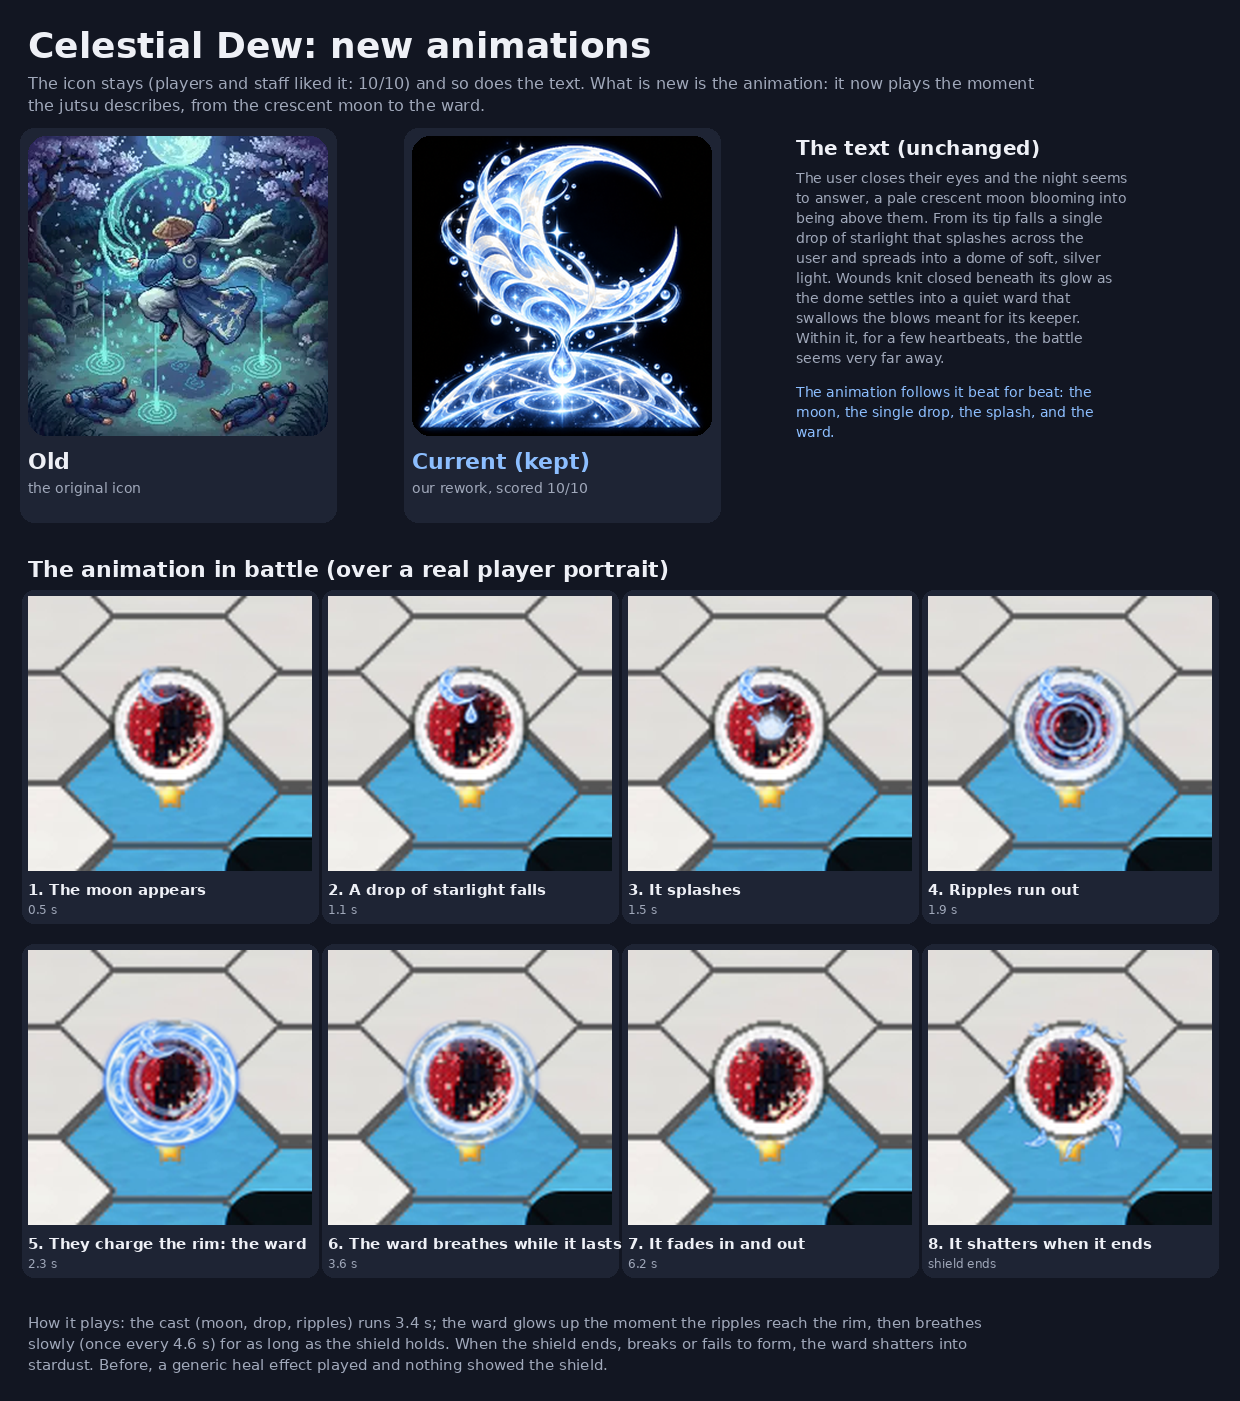
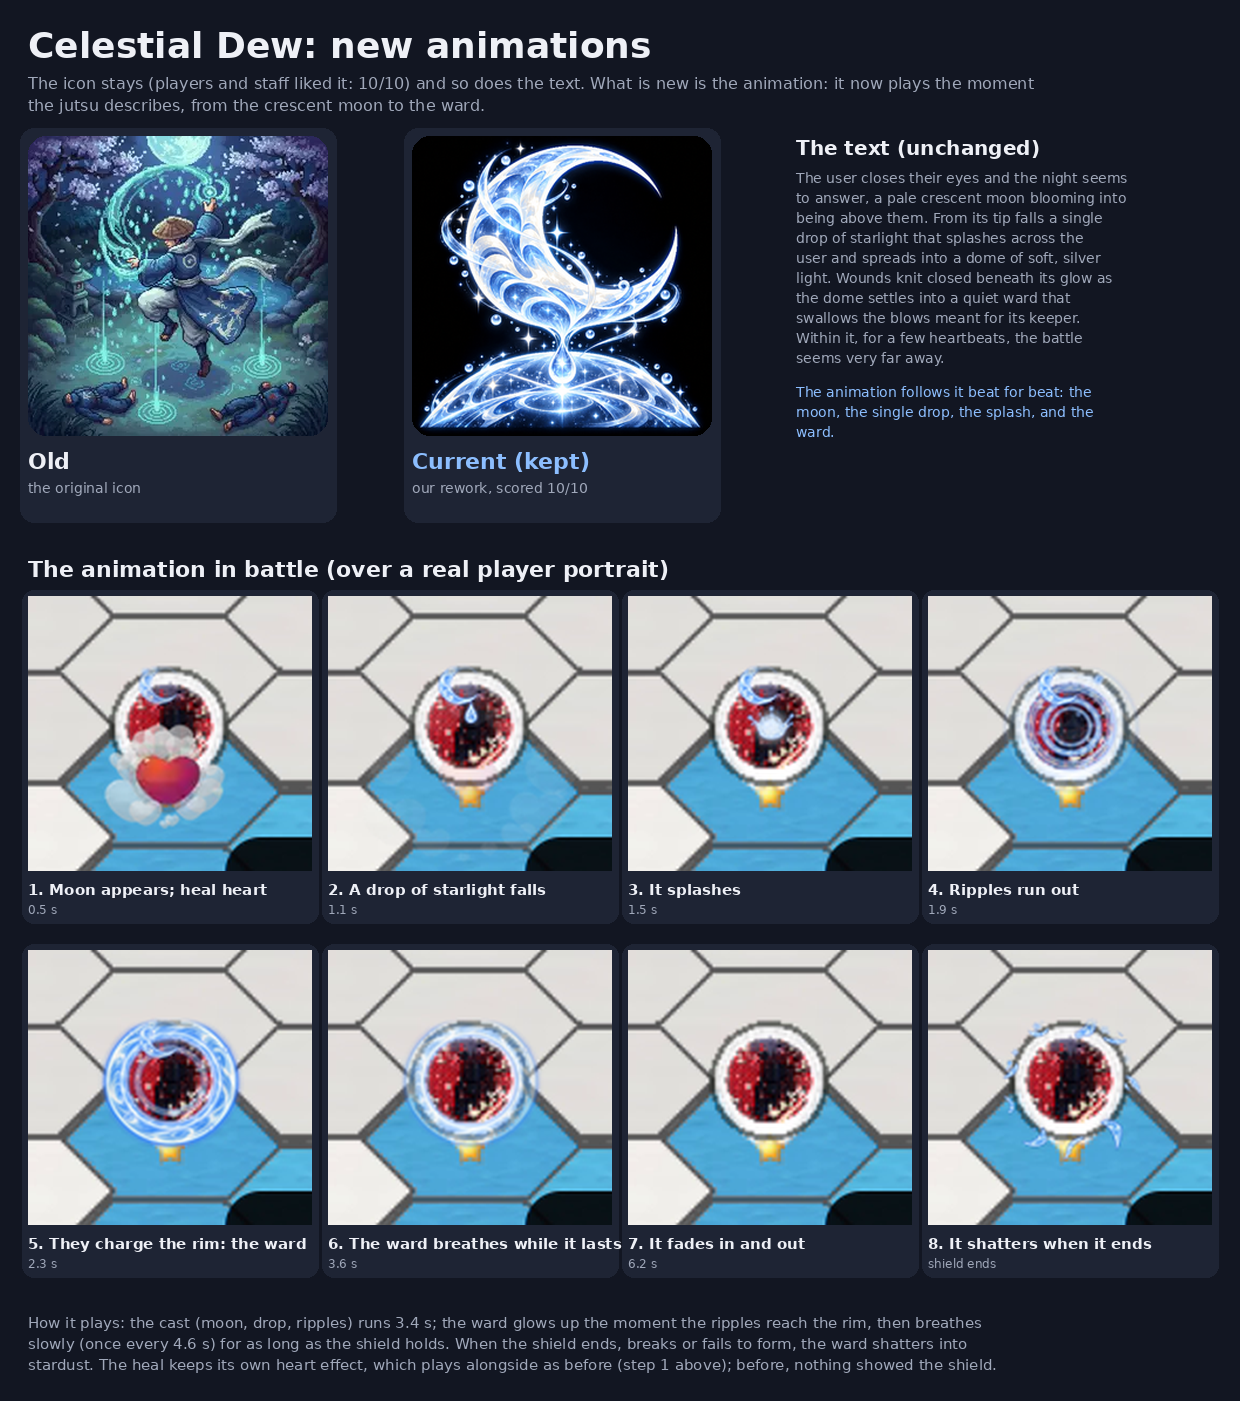
Celestial Dew: the heal keeps its own appear (I9aYhT5wMB); previews and showcase play it alongside; plan corrected
Claude-Session: https://claude.ai/code/session_01BK7FehqLqgE1qdDYPV9z98

diff --git a/docs/design/celestial_dew_animation/showcase/make_showcase.py b/docs/design/celestial_dew_animation/showcase/make_showcase.py
@@ -24,7 +24,7 @@ BATTLE = ("%user closes their eyes and the night seems to answer, a pale crescen
 ICONS = [('Old', 'the original icon', 'art/jutsu_icons/celestial_dew/refs/ref_cd_original_icon.webp', FG),
          ('Current (kept)', 'our rework, scored 10/10', 'art/jutsu_icons/celestial_dew/refs/ref_cd_live_icon.webp', ACC)]
 # storyboard moments: (ms, caption)
-BOARD = [(500, 'The moon appears'), (1150, 'A drop of starlight falls'), (1500, 'It splashes'),
+BOARD = [(500, 'Moon appears; heal heart'), (1150, 'A drop of starlight falls'), (1500, 'It splashes'),
          (1950, 'Ripples run out'), (2300, 'They charge the rim: the ward'), (3600, 'The ward breathes while it lasts'),
          (6200, 'It fades in and out'), (-300, 'It shatters when it ends')]
 BOX, CX, CY, FR = (140, 120, 274, 250), 207, 203, 105
@@ -42,9 +42,16 @@ def strip(n):
     return [s.crop((0, i * s.width, s.width, (i + 1) * s.width)) for i in range(s.height // s.width)]
 
 
+HEAL_MS = 60   # the heal's own appear animation (I9aYhT5wMB, kept): its frame time is not on record here (assumed)
+_h = Image.open(os.path.join(ROOT, 'art/jutsu_icons/celestial_dew/refs/ref_cd_heal_animation_I9aYhT5wMB.webp')).convert('RGBA')
+HEAL = [_h.crop((0, i * _h.width, _h.width, (i + 1) * _h.width)) for i in range(_h.height // _h.width)]
+
+
 def at(bg, appear, loop, brk, ms, sc):
     c = bg.copy()
     pos = (CX - FR // 2, CY - FR // 2)
+    if ms >= 0 and ms // HEAL_MS < len(HEAL):
+        c.alpha_composite(HEAL[ms // HEAL_MS].resize((FR, FR), Image.LANCZOS), pos)
     if ms >= 0:
         c.alpha_composite(loop[(ms // cd.MS['loop']) % len(loop)].resize((FR, FR), Image.LANCZOS), pos)
         if ms // cd.MS['appear'] < len(appear):
@@ -103,8 +110,8 @@ def main():
     y += 2 * (cw + 70) + 10
     y = para(d, G, y, 'How it plays: the cast (moon, drop, ripples) runs 3.4 s; the ward glows up the moment the ripples '
                       'reach the rim, then breathes slowly (once every 4.6 s) for as long as the shield holds. When the '
-                      'shield ends, breaks or fails to form, the ward shatters into stardust. Before, a generic heal effect '
-                      'played and nothing showed the shield.', 132, F(15), DIM, 21)
+                      'shield ends, breaks or fails to form, the ward shatters into stardust. The heal keeps its own heart '
+                      'effect, which plays alongside as before (step 1 above); before, nothing showed the shield.', 132, F(15), DIM, 21)
     s.crop((0, 0, W, y + 24)).save(os.path.join(HERE, 'celestial_dew_showcase.png'))
     # battle gif (2x, real time, two breaths then the break)
     frames, tick = [], 40

diff --git a/push/238_celestial_dew_animations.gen.py b/push/238_celestial_dew_animations.gen.py
@@ -6,7 +6,7 @@
 Strips: art/jutsu_icons/celestial_dew/animation/exports/anim_celestial_dew_{appear,loop,break}_v3.webp
 (docs/design/celestial_dew_animation/PROJECT.md section 8), 112 px frames. All on the shield effect: its appearAnimation
 (the moon, the drop, the splash and the ripples; 46 ms), staticAnimation (the ward breathing, its first peak when the
-ripples reach the rim; 72 ms) and disappearAnimation (break; 46 ms). The heal's appear is cleared in the suggestion. Created hidden (law 16b gate); from this run's results bundle a follow-up unhides them (law 16c) and the jutsu
+ripples reach the rim; 72 ms) and disappearAnimation (break; 46 ms). The heal keeps its own appear animation. Created hidden (law 16b gate); from this run's results bundle a follow-up unhides them (law 16c) and the jutsu
 suggestion points the effects at them. The image pack is pinned at HEAD: commit the strips first.
 """
 import hashlib, json, os, subprocess
@@ -37,7 +37,7 @@ for src, name, fn, frames, speed in ASSETS:
                            "frames": frames, "speed": speed, "hidden": True, "onInitialBattleField": False,
                            "licenseDetails": "TNR"}})
 m = {
-    "_note": "Creates the three Celestial Dew animation assets, all for the shield effect (appear: the moon, the drop, the splash and the ripples; loop: the ward breathing while the shield lasts, its first glow peak when the ripples reach the rim; break: the ward shattering). 112 px frames; 46, 72 and 46 ms. Direct creates, hidden (law 16b gate); a follow-up built from this run's bundle unhides them (law 16c) and the jutsu suggestion sets the shield's appear/static/disappear and clears the heal's appear. Generated by push/238_celestial_dew_animations.gen.py; do not hand-edit.",
+    "_note": "Creates the three Celestial Dew animation assets, all for the shield effect (appear: the moon, the drop, the splash and the ripples; loop: the ward breathing while the shield lasts, its first glow peak when the ripples reach the rim; break: the ward shattering). 112 px frames; 46, 72 and 46 ms. Direct creates, hidden (law 16b gate); a follow-up built from this run's bundle unhides them (law 16c) and the jutsu suggestion sets the shield's appear/static/disappear (the heal keeps its own). Generated by push/238_celestial_dew_animations.gen.py; do not hand-edit.",
     "imgSizes": sizes,
     "imagePack": {"ref": ref, "files": pack},
     "items": items,

diff --git a/docs/design/celestial_dew_animation/preview.py b/docs/design/celestial_dew_animation/preview.py
@@ -28,6 +28,11 @@ def fr(n):
 
 
 appear, loop, brk = fr('appear'), fr('loop'), fr('break')
+# the heal effect's own appear animation (I9aYhT5wMB, kept; supplied by the director; 20 frames of 128 px). Its frame time
+# is not on record here: HEAL_MS is an assumption.
+HEAL_MS = 60
+_h = Image.open(os.path.join(ROOT, 'art/jutsu_icons/celestial_dew/refs/ref_cd_heal_animation_I9aYhT5wMB.webp')).convert('RGBA')
+heal = [_h.crop((0, i * _h.width, _h.width, (i + 1) * _h.width)).resize((F * SC, F * SC), Image.LANCZOS) for i in range(_h.height // _h.width)]
 ma, ml, mb = cd.MS['appear'], cd.MS['loop'], cd.MS['break']
 pos = ((CX - F // 2 - BOX[0]) * SC, (CY - F // 2 - BOX[1]) * SC)
 font = ImageFont.truetype('/usr/share/fonts/truetype/dejavu/DejaVuSans-Bold.ttf', 15)
@@ -36,6 +41,8 @@ out = []
 for ms in range(0, up_ms + len(brk) * mb + 400, TICK):
     c = bg.copy()
     if ms < up_ms:
+        if ms // HEAL_MS < len(heal):
+            c.alpha_composite(heal[ms // HEAL_MS], pos)
         c.alpha_composite(loop[(ms // ml) % len(loop)], pos)
         if ms // ma < len(appear):
             c.alpha_composite(appear[ms // ma], pos)

diff --git a/docs/design/celestial_dew_animation/PROJECT.md b/docs/design/celestial_dew_animation/PROJECT.md
@@ -131,3 +131,12 @@ timed with the static animation which is a looping glow effect. Try to make it s
   every 4.6 s; the ward is dark for about 1.8 s of each breath.
 - **break** (`break_v3`, 30 frames x 46 ms = 1.38 s): the ring flashes and shatters into shards.
 - Preview `v3_over_avatar.gif` (composited on real time, two breaths then the break); stills `v3_key_frames.png`.
+
+## 9. The heal's own animation stays (2026-10-24)
+
+Director: "Here's the heal animation. Do note that appears on the heal tag, not on the shield tag and would still play
+normally. Ours is for the shield tag." The heal effect keeps its appear animation `I9aYhT5wMB` (a heart forming in a puff
+of cloud; 20 frames of 128 px, `art/jutsu_icons/celestial_dew/refs/ref_cd_heal_animation_I9aYhT5wMB.webp`); it plays at
+cast alongside the shield's appear. The suggestion leaves the heal effect untouched (corrects section 7, which planned to
+clear it). Previews and the showcase now composite it under ours; its frame time is not on record here and is assumed
+60 ms.

diff --git a/push/README.md b/push/README.md
@@ -767,8 +767,8 @@ the shield effect: `cd_anim_appear` (appear: 74 frames x 46 ms = 3.4 s), `cd_ani
 breath, peak at 2.30 s), `cd_anim_break` (disappear: 30 x 46 ms); 112 px. Preview:
 `docs/design/celestial_dew_animation/v3_over_avatar.gif`. Pack pinned at eaeb429. Gates: `validate.py --strict` 0
 errors, 0 warnings; `check_manifest.mjs` 0 pre-send problems. **After it runs:** from its bundle, one direct manifest
-unhides the three (law 16c), then one suggestion on Celestial Dew sets them on the shield and clears the heal's generic
-appear (re-sending the live effects array).
+unhides the three (law 16c), then one suggestion on Celestial Dew sets them on the shield (the heal keeps its own appear
+`I9aYhT5wMB`; re-sending the live effects array).
 
 ## 237 Ethereal Rebirth hit animation (create): RUN, verified (bundle tnr_results_1792874408622.json, id crcBkGqA7Dyx52I-wU3gc), archived
 

diff --git a/docs/design/celestial_dew_animation/showcase/THREAD_POST.md b/docs/design/celestial_dew_animation/showcase/THREAD_POST.md
@@ -9,7 +9,7 @@ moment the jutsu describes.
   and out for as long as the shield holds.
 - **When it ends:** if the shield runs out, breaks, or fails to form, the ward shatters into stardust.
 
-Before, a generic heal effect played and nothing showed the shield.
+The heal keeps its own heart effect, which still plays alongside as before. Before, nothing showed the shield.
 
 Sheet: old and current icons, the text, and the animation step by step over a real player portrait. GIF: the animation
 in battle, from cast to break. Feedback welcome before it goes live.
